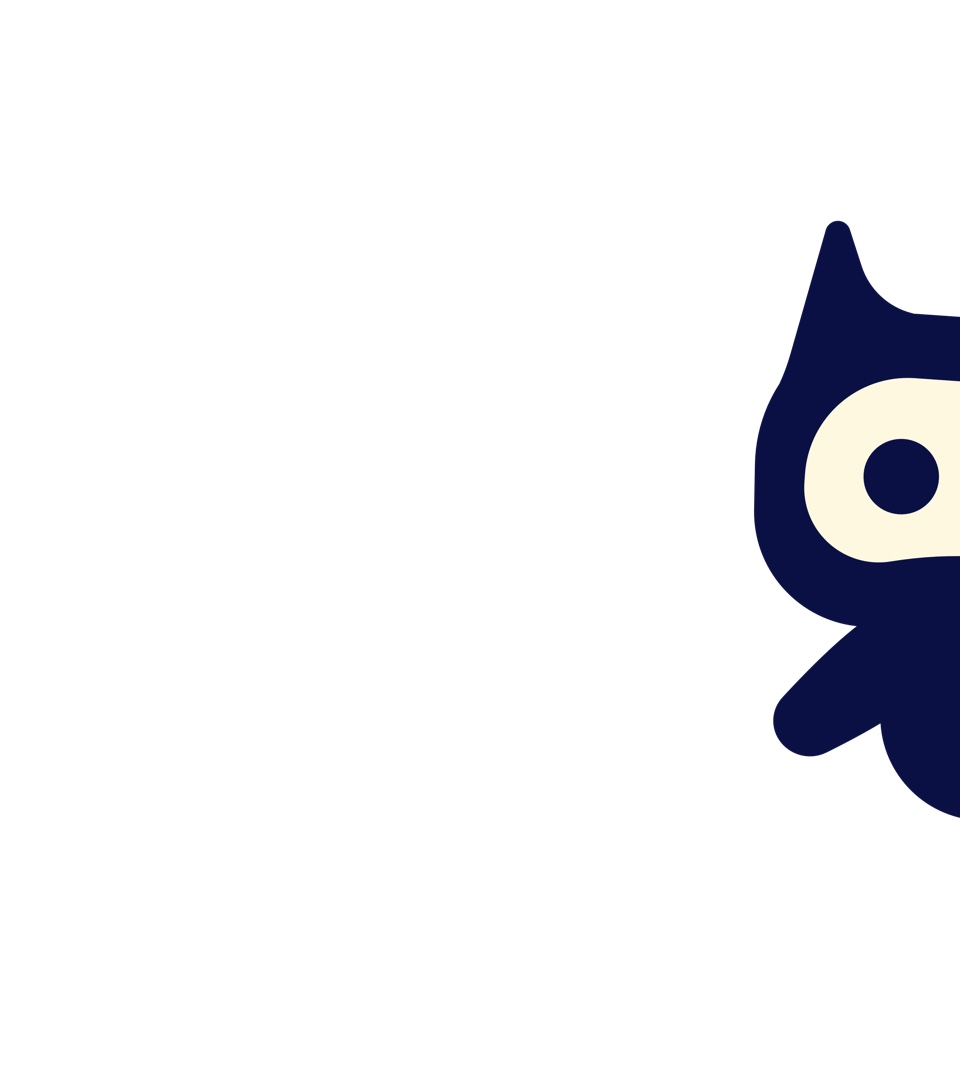
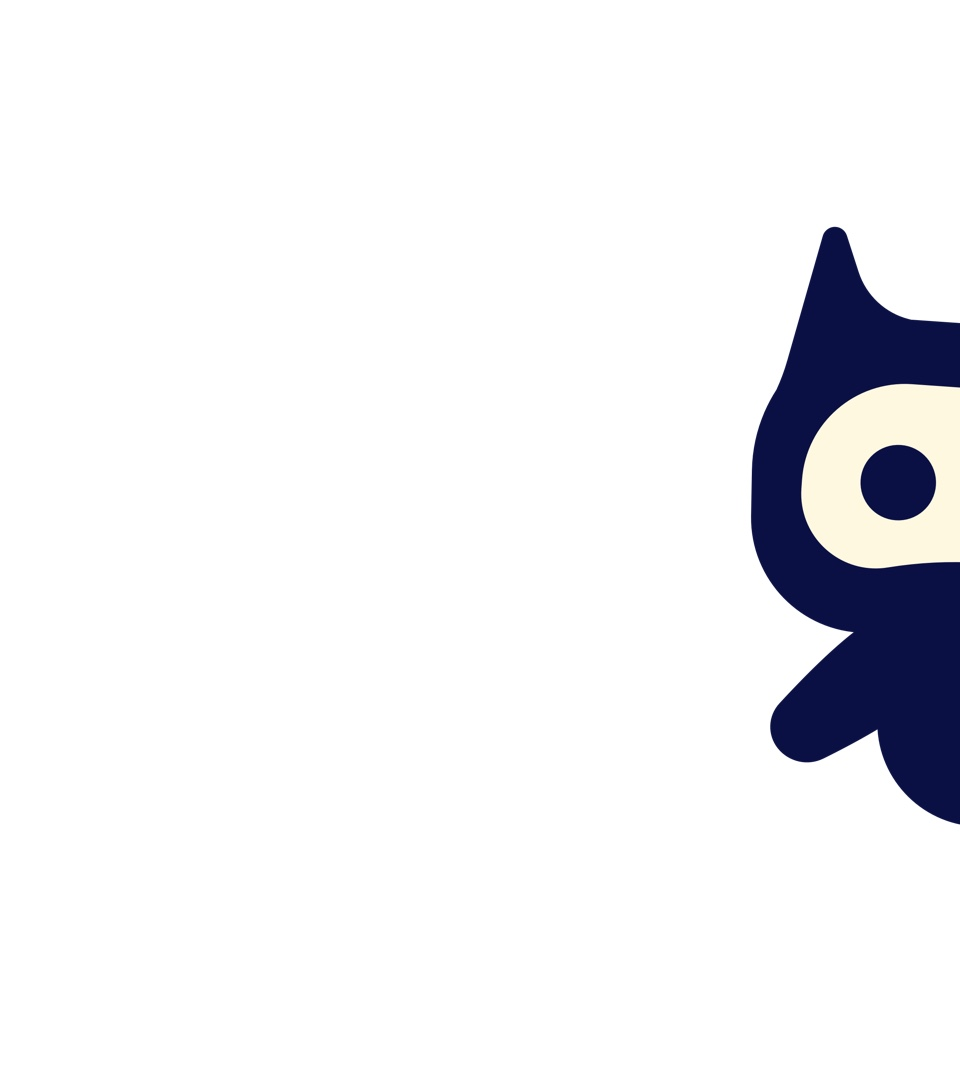
up

diff --git a/public/gioithieupc.html b/public/gioithieupc.html
@@ -4,18 +4,19 @@
     <meta charset="utf-8">
     <meta name="viewport" content="width=device-width, initial-scale=1, shrink-to-fit=no, user-scalable=no">
     <meta name="format-detection" content="090 810 3357">
-    <title>Chanchan - Trợ lý kết nối</title>
-    <meta name="description" content="Trợ lý kết nối, hẹn hò dành cho người trưởng thành. Phù hợp các bạn bận công việc ít thời gian dành cho bản thân, các bạn làm việc nơi công sở"/>
+    <title>Chanchan - Giới thiệu</title>
+    <meta name="description" content="Nền tảng hẹn hò dành cho người trưởng thành"/>
     <meta property="og:image" content="https://chanchan.vn/media/other/thumb.png"/>
     
     <link rel="shortcut icon" type="image/x-icon" href="media/other/favicon.png">
     <link rel="stylesheet" type="text/css" href="css/pagetemp0710.css">
     <script src="js/pagetemp/svgInject.js"></script>
     <script type="text/javascript">
-        if (window.innerWidth > 768) {
-            document.location = "/indexpc.html";
+        if (window.innerWidth <= 768) {
+            document.location = "/hengiaumat.html";
         }
     </script>
+
     <!-- Meta Pixel Code -->
     <script>
         !function(f,b,e,v,n,t,s)
@@ -37,28 +38,28 @@
 </head>
 
 <body>
-    <div class="wrap">
+    <div class="wrap_bg">
         <!-- container -->
-        <main id="container" role="main">
+        <main id="container" role="main" class="wrapPC">
             <!-- Content -->
             <div id="content">
                 <div class="page_temp">
-                    <div class="single-img-with-cover component">          
-                        <img src="media/trial/1.svg" alt="cover" onload="SVGInject(this)" class="fullWidth fullHeight">
-                        <div class="single-image" src="media/trial/1.jpg">
-                            <img src="" alt="" class="fullWidth fullHeight">
-                        </div>
-                    </div>
                     <div class="component">
-                        <a href="https://chanchan.vn/dangky"> 
+                        <img src="media/gioithieu/1.svg" alt="" onload="SVGInject(this)" class="fullWidth fullHeight" />
+                    </div>
+                    <div class="single-img-with-cover component">
+                        <a href="https://chanchan.vn/hengiaumat"> 
                             <button class="btn" style="
-                              width: 66%;
-                              height: 17.6%;
-                              bottom: 13.8%;
-                              left: 17%;">
+                              width: 78%;
+                              height: 12.2%;
+                              bottom: 7.8%;
+                              left: 11%;">
                             </button>
                         </a>
-                        <img src="media/trial/2.svg" alt="" onload="SVGInject(this)" class="fullWidth fullHeight" />
+                        <img src="media/gioithieu/2.svg" alt="cover" onload="SVGInject(this)" class="fullWidth fullHeight">
+                        <div class="single-image" src="media/gioithieu/2.jpg">
+                            <img src="" alt="" class="fullWidth fullHeight">
+                        </div>
                     </div>
                     <div class="single-video-wrap video-wrap single-video-with-cover component">
                         <img src="media/vid/us.svg" id="single-preview" class="single-img-with-cover" />
@@ -71,7 +72,7 @@
                     </div>
                     <div class="component">
                         <img src="media/footer/footer.svg" alt="" onload="SVGInject(this)" class="fullWidth fullHeight" />
-                    </div>                    
+                    </div>
                 </div>
             </div>
             <!-- //Content -->

diff --git a/public/gioithieu.html b/public/gioithieu.html
@@ -4,16 +4,16 @@
     <meta charset="utf-8">
     <meta name="viewport" content="width=device-width, initial-scale=1, shrink-to-fit=no, user-scalable=no">
     <meta name="format-detection" content="090 810 3357">
-    <title>Chanchan - Trợ lý kết nối</title>
-    <meta name="description" content="Trợ lý kết nối, hẹn hò dành cho người trưởng thành. Phù hợp các bạn bận công việc ít thời gian dành cho bản thân, các bạn làm việc nơi công sở"/>
+    <title>Chanchan - Giới thiệu</title>
+    <meta name="description" content="Nền tảng hẹn hò dành cho người trưởng thành"/>
     <meta property="og:image" content="https://chanchan.vn/media/other/thumb.png"/>
     
     <link rel="shortcut icon" type="image/x-icon" href="media/other/favicon.png">
     <link rel="stylesheet" type="text/css" href="css/pagetemp0710.css">
     <script src="js/pagetemp/svgInject.js"></script>
     <script type="text/javascript">
-        if (window.innerWidth <= 768) {
-            document.location = "/index.html";
+        if (window.innerWidth > 768) {
+            document.location = "/gioithieupc.html";
         }
     </script>
 
@@ -38,28 +38,28 @@
 </head>
 
 <body>
-    <div class="wrap_bg">
+    <div class="wrap">
         <!-- container -->
-        <main id="container" role="main" class="wrapPC">
+        <main id="container" role="main">
             <!-- Content -->
             <div id="content">
                 <div class="page_temp">
-                    <div class="single-img-with-cover component">          
-                        <img src="media/trial/1.svg" alt="cover" onload="SVGInject(this)" class="fullWidth fullHeight">
-                        <div class="single-image" src="media/trial/1.jpg">
-                            <img src="" alt="" class="fullWidth fullHeight">
-                        </div>
-                    </div>
                     <div class="component">
-                        <a href="https://chanchan.vn/dangky"> 
+                        <img src="media/gioithieu/1.svg" alt="" onload="SVGInject(this)" class="fullWidth fullHeight" />
+                    </div>
+                    <div class="single-img-with-cover component">
+                        <a href="https://chanchan.vn/hengiaumat"> 
                             <button class="btn" style="
-                              width: 66%;
-                              height: 17.6%;
-                              bottom: 13.8%;
-                              left: 17%;">
+                              width: 78%;
+                              height: 12.2%;
+                              bottom: 7.8%;
+                              left: 11%;">
                             </button>
                         </a>
-                        <img src="media/trial/2.svg" alt="" onload="SVGInject(this)" class="fullWidth fullHeight" />
+                        <img src="media/gioithieu/2.svg" alt="cover" onload="SVGInject(this)" class="fullWidth fullHeight">
+                        <div class="single-image" src="media/gioithieu/2.jpg">
+                            <img src="" alt="" class="fullWidth fullHeight">
+                        </div>
                     </div>
                     <div class="single-video-wrap video-wrap single-video-with-cover component">
                         <img src="media/vid/us.svg" id="single-preview" class="single-img-with-cover" />
@@ -72,7 +72,7 @@
                     </div>
                     <div class="component">
                         <img src="media/footer/footer.svg" alt="" onload="SVGInject(this)" class="fullWidth fullHeight" />
-                    </div>                    
+                    </div>
                 </div>
             </div>
             <!-- //Content -->

diff --git a/app.js b/app.js
@@ -14,9 +14,6 @@ app.use(cors());
 //setting middleware
 app.use(express.static(__dirname + '/public')); //Serves resources from public folder
 
-app.get('/', function (req, res) {
-    res.sendFile(__dirname + '/public/index.html');
-});
 /*cũ trước ngày 19.05.22*/
 app.get('/trialm%', function (req, res) {
     res.sendFile(__dirname + '/public/dangky.html');
@@ -55,7 +52,11 @@ app.get('/tangtocdk', function (req, res) {
     res.sendFile(__dirname + '/public/dangky.html');
 });
 
+
 /* Đang chạy từ ngày 19.05.22 */
+app.get('/', function (req, res) {
+    res.sendFile(__dirname + '/public/gioithieu.html');
+});
 app.get('/hengiaumat', function (req, res) {
     res.sendFile(__dirname + '/public/hengiaumat.html');
 });

diff --git a/public/css/pagetemp0710.css b/public/css/pagetemp0710.css
@@ -111,9 +111,9 @@ table{border-collapse:collapse;border-spacing:0}
 .single-img-with-cover .single-image {
     position: absolute;
     top: 0;
-    left: 0;
+    left: 0.2%;
     z-index: -1;
-    width: 100%;
+    width: 100.2%;
 }
 .single-img-with-cover .bg {
     position: absolute;
